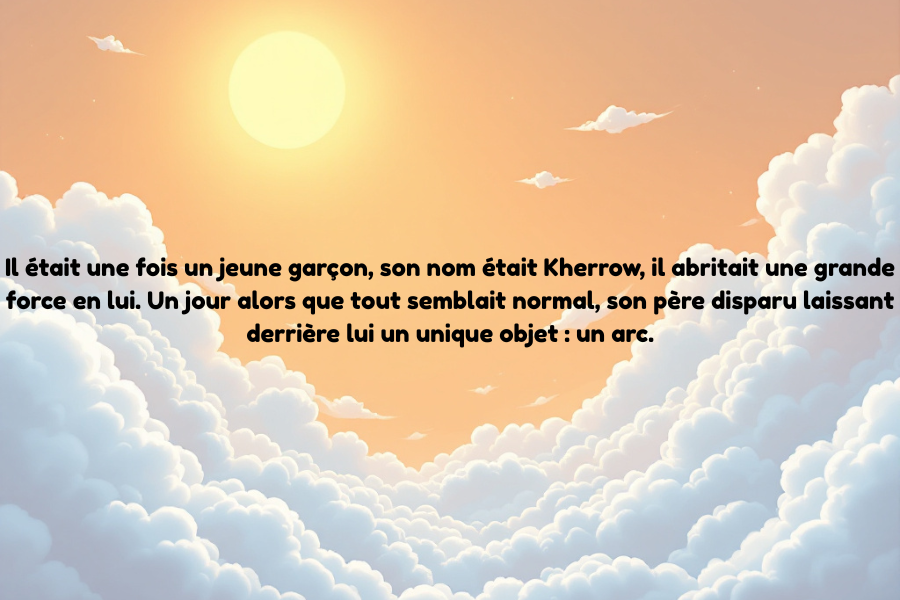
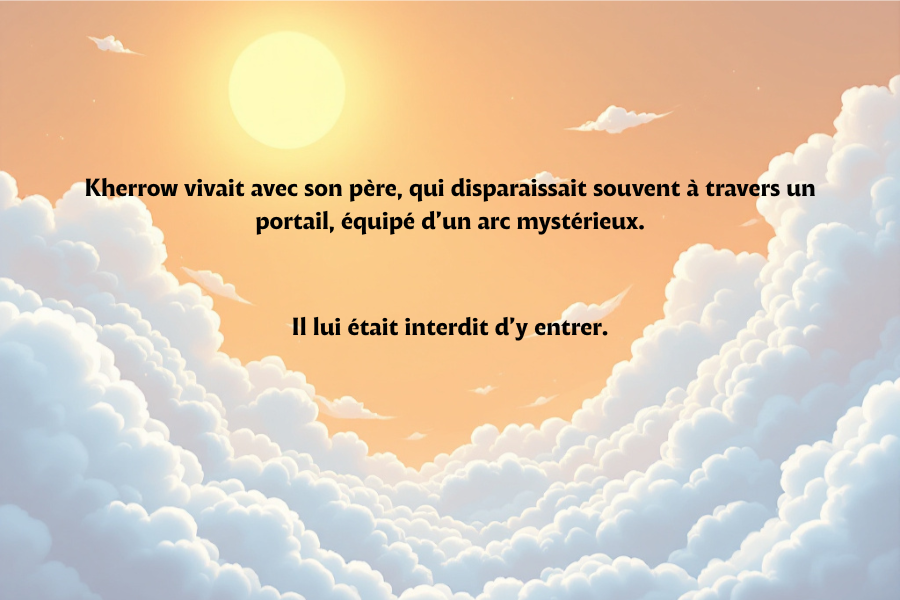
modification histoire

Changed region(s): [[0.0, 0.42, 0.9956, 0.57], [0.0933, 0.3, 0.9022, 0.33], [0.28, 0.36, 0.7156, 0.39]]

diff --git a/level_selection.py b/level_selection.py
@@ -2,6 +2,7 @@
 
 import pygame
 from sound_manager import SoundManager
+import movie_manager
 
 def Level_selection(screen, height, width, ranked):
     """
@@ -70,6 +71,8 @@ def Level_selection(screen, height, width, ranked):
                     if rect.collidepoint(event.pos):
                         sono.play_button_sound()
                         if int(number) == 1:
+                            video_player = movie_manager.PngPlayer("begin_story", screen, position=(0, 0), fps=24)
+                            video_player.play()
                             return "game", 1
                         elif int(number) == 2:
                             return "game", 5
